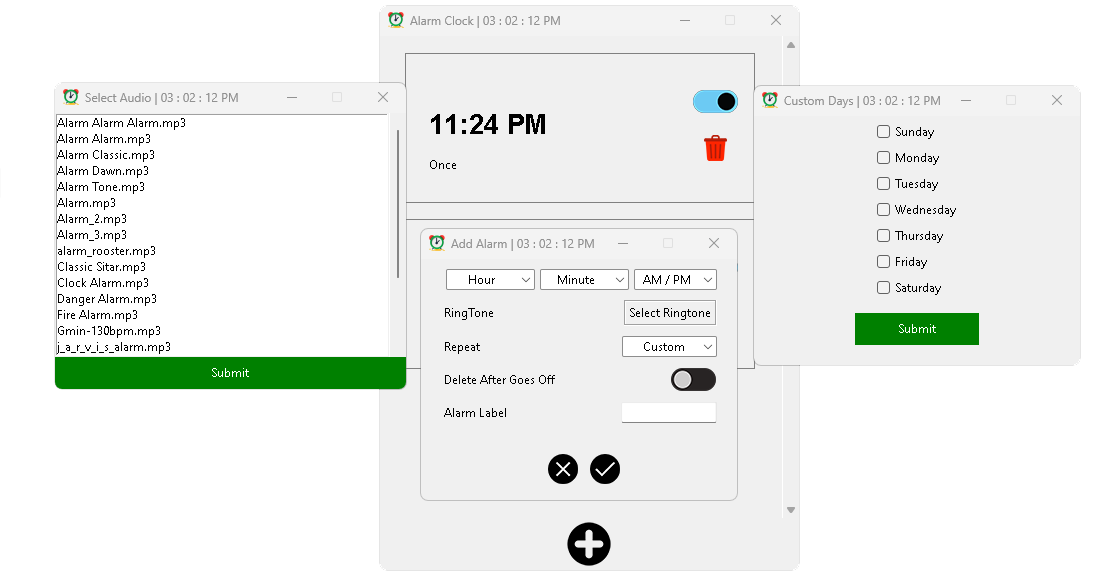
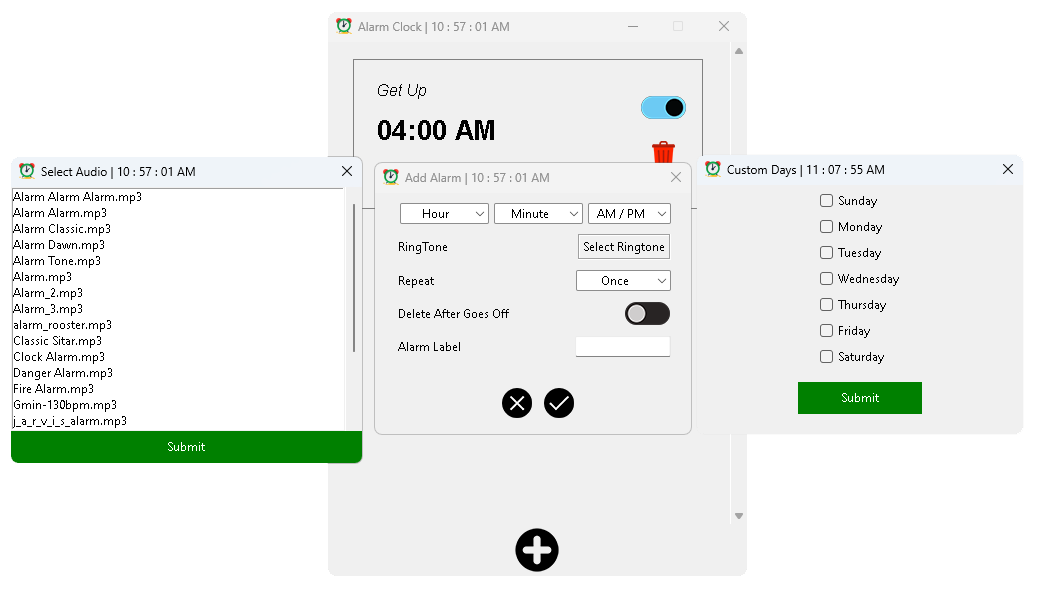
Removed minimize and maximized buttons from Toplevel windows

diff --git a/PROJECT GUIs/Alarm Clock/SelectToneWin.py b/PROJECT GUIs/Alarm Clock/SelectToneWin.py
@@ -54,6 +54,7 @@ class SelectToneWin:
         self.all_audios = os.listdir(self.audio_path)
 
         self.ToneWin = Toplevel(self.window)
+        self.ToneWin.transient(self.window)
         self.ToneWin.grab_set()
 
         self.ToneWin.withdraw()

diff --git a/PROJECT GUIs/Alarm Clock/AddAlarm.py b/PROJECT GUIs/Alarm Clock/AddAlarm.py
@@ -52,6 +52,7 @@ class AddAlarm:
         '''
 
         self.AddAlarmWindow = Toplevel(self.window)
+        self.AddAlarmWindow.transient(self.window)
         self.AddAlarmWindow.withdraw()
         self.AddAlarmWindow.grab_set()
 

diff --git a/PROJECT GUIs/Alarm Clock/CustomDaysWin.py b/PROJECT GUIs/Alarm Clock/CustomDaysWin.py
@@ -55,6 +55,7 @@ class CustomDays:
         '''
 
         self.CustomDaysWin = Toplevel(self.window)
+        self.CustomDaysWin.transient(self.window)
         self.CustomDaysWin.grab_set()
         self.CustomDaysWin.withdraw()
 
